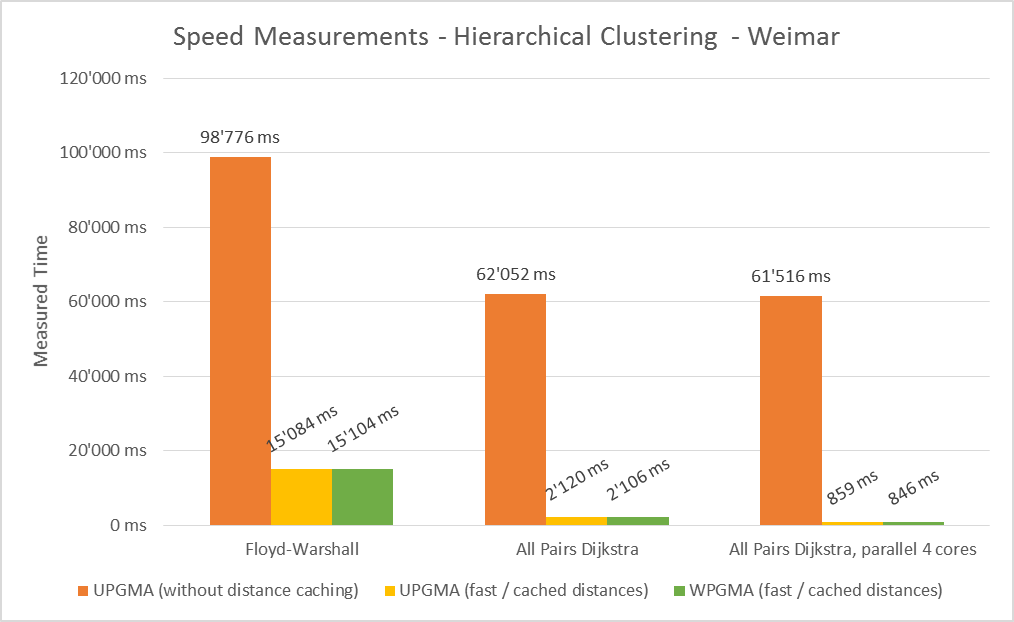
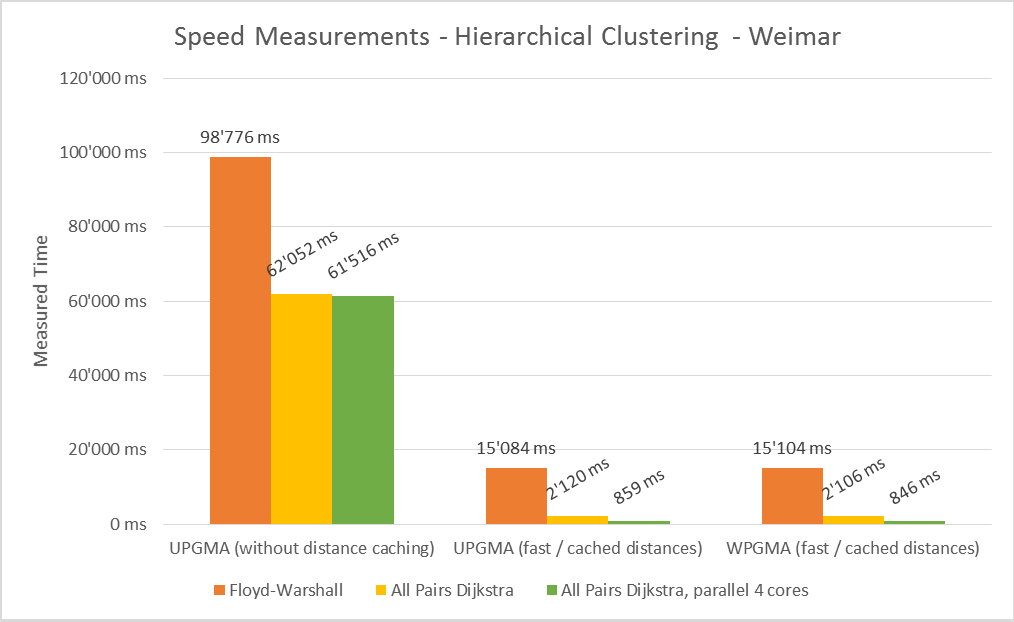
Finished speed measurement section

diff --git a/075_ResultsMeasurements.tex b/075_ResultsMeasurements.tex
@@ -5,12 +5,12 @@ The measuring was done by inserting profiling code. The .Net Framework provides 
 
 %TODO: Used environment
 %TODO: Add table of results (and link it here)
-%TODO: Add glossary entry for '.Net Framework' and 'CPlan'
+%TODO: Add glossary entry for '.Net Framework', 'CPlan', 'K-Means'
 
 \subsection{K-Means}
-The first figure \ref{fig:kmeans_speed} shows speed measurements of the K-Means algorithm applied to Weimar in different settings.
+Figure \ref{fig:kmeans_speed} shows speed measurements of the K-Means algorithm applied to Weimar in different settings.
 
-The used parameters were for all four measurements the following (Those parameters can be manually set as shown in the appendix in figure \ref{fig:applied_k-means_GUI}.):
+The used parameters were for all four measurement categories the following (Those parameters can be manually set as shown in the appendix in figure \ref{fig:applied_k-means_GUI}.):
 
 \begin{itemize}
     \item No live visualisation
@@ -34,20 +34,47 @@ The different bars of the diagram have the following meaning:
     \begin{mdframed}[style=mdthight]
         \includegraphics[width=\textwidth]{kmeans_speed.png}
     \end{mdframed}
-    \caption{Speed measurements of the K-Means clustering algorithm applied to Weimar\label{fig:kmeans_speed}}
+    \caption{Speed measurements of the K-Means clustering algorithm applied to Weimar \label{fig:kmeans_speed}}
 \end{figure}
 
 As it is clearly visible, parallelisation almost doubles the performance of K-Means. Adding an \acrshort{APSP} does only inflict a minor slowdown in both the parallel and the original implementation.
 
 \subsection{Hierarchical Clustering}
+Figure \ref{fig:hierarchical_clustering_speed} shows speed measurements of hierarchical clustering algorithms applied to Weimar.
+
+The used parameters were for all measurements the following (Those parameters can be manually set as shown in the appendix in figure \ref{fig:applied_HC_clustering_GUI}.):
+
+\begin{itemize}
+    \item Show slider dialog (figure \ref{fig:applied_HC_clustering_slider_GUI}): no
+    \item Number of clusters: 10
+    \item Modify Output \ref{sec:outout_modification}: no
+\end{itemize}
+
+The different bars show the speed measurements of the implemented variations of hierarchical clustering algorithms. Each algorithm was measured in conjunction with different \acrshort{APSP} algorithms. The following hierarchical clustering implementations were measured:
+
+\begin{itemize}
+    \item \textbf{UPGMA (without distance caching):} Hierarchical clustering using the \acrshort{UPGMA} reduction formula, without using cluster distance caching. Distances between clusters were calculated every time they were needed.
+    \item \textbf{UPGMA (fast / cached distances):} Hierarchical clustering using the \acrshort{UPGMA} reduction formula. Different than the previous, here distance caching \ref{sec:concept_distance_caching} was applied.
+    \item \textbf{WPGMA (fast / cached distances):} Same clustering as the previous, but using the \acrshort{WPGMA} reduction formula.
+\end{itemize}
+
+The following \acrshort{APSP} algorithms were measured:
+
+\begin{itemize}
+    \item \textbf{Floyd-Warshall:} Regular Floyd-Warshall algorithm.
+    \item \textbf{Dijkstra:} Regular \acrshort{SSSP} Dijkstra algorithm started from each vertex separately to create an \acrshort{APSP} algorithm. See \ref{sec:shortest_path} for more details.
+    \item \textbf{Dijkstra Parallel:} The same as the previous but the Dijkstra algorithm runs are executed parallelised.
+\end{itemize}
 
 \begin{figure}[!ht]
     \centering
     \begin{mdframed}[style=mdthight]
         \includegraphics[width=\textwidth]{hierarchical_clustering_speed.png}
     \end{mdframed}
-    \caption{Speed measurements of hierarchical clustering applied to Weimar\label{fig:hierarchical_clustering_speed}}
+    \caption{Speed measurements of hierarchical clustering applied to Weimar \label{fig:hierarchical_clustering_speed}}
 \end{figure}
+
+The caching of cluster distances resulted in a significant speed improvement over the non-cached variation as it was expected. When comparing the speed of the applied \acrshort{APSP} algorithms, the parallelised Dijkstra solution performed the best. The parallelisation lead to more than double the speed of clustering with WPGMA over the non-parallel version. Both versions of the Dijkstra algorithm far outperformed the Floyd-Warshall algorithm in any of the measured hierarchical clustering variations.
 
 \pagebreak
 \section{Cluster Analysis}

diff --git a/050_Concept.tex b/050_Concept.tex
@@ -41,8 +41,8 @@ The following approach provided itself as reasonable to create the described clu
     \item Create wished number of clusters from this resulting hierarchy
 \end{enumerate}
 
-\subsection{Distance caching}
-To reach an appropriate time complexity when computing hierarchical clustering using \acrshort{UPGMA} or \acrshort{WPGMA} reduction formulae, distances between clusters have to be cached. If those distances were calculated every time --- by iterating over all nodes contained by two clusters --- this would inflict bad performance. The speed up of this improvement is further discussed in section \ref{sec:measurements-speed}.
+\subsection{Distance caching} \label{sec:concept_distance_caching}
+To reach an appropriate time complexity when computing hierarchical clustering using \acrshort{UPGMA} or \acrshort{WPGMA} reduction formulae, distances between clusters have to be cached. If those distances were calculated every time --- by iterating over all nodes contained by two clusters --- this would inflict bad performance. The speedup of this improvement is further discussed in section \ref{sec:measurements-speed}.
 
 \subsection{Hight Memory Usage} \label{sec:concept_memory_usage}
 The most trivial solution to store those discussed distances (\acrshort{APSP} and cached cluster distances) would be as a matrix of double-precision floating-point numbers. This is because the given numeric data was already in this number format and a matrix is easily accessible. The \acrshort{APSP} and cached distances can be stored in the same matrix, because when using agglomerative hierarchical clustering, each vertex is also one of the initial clusters.
